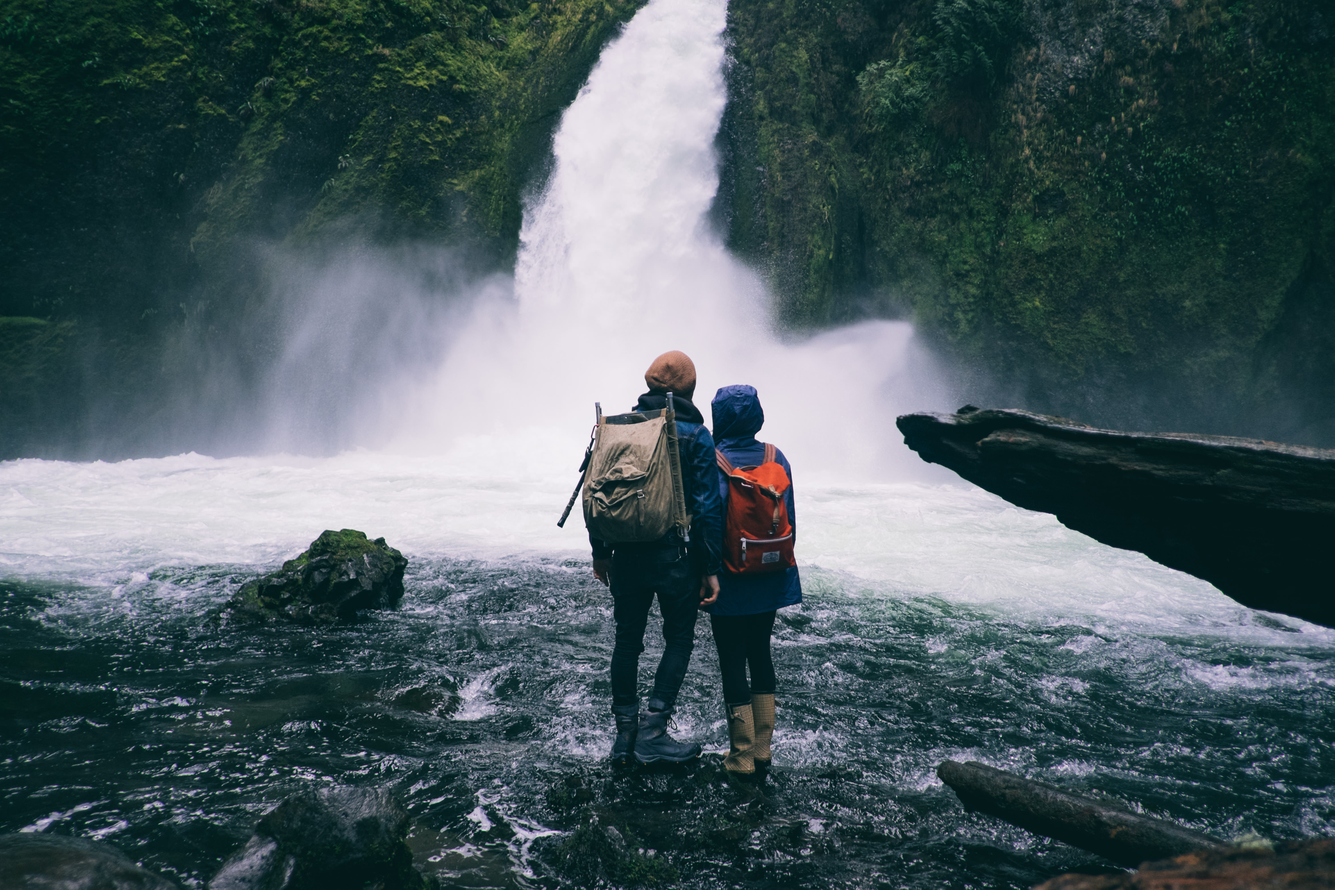
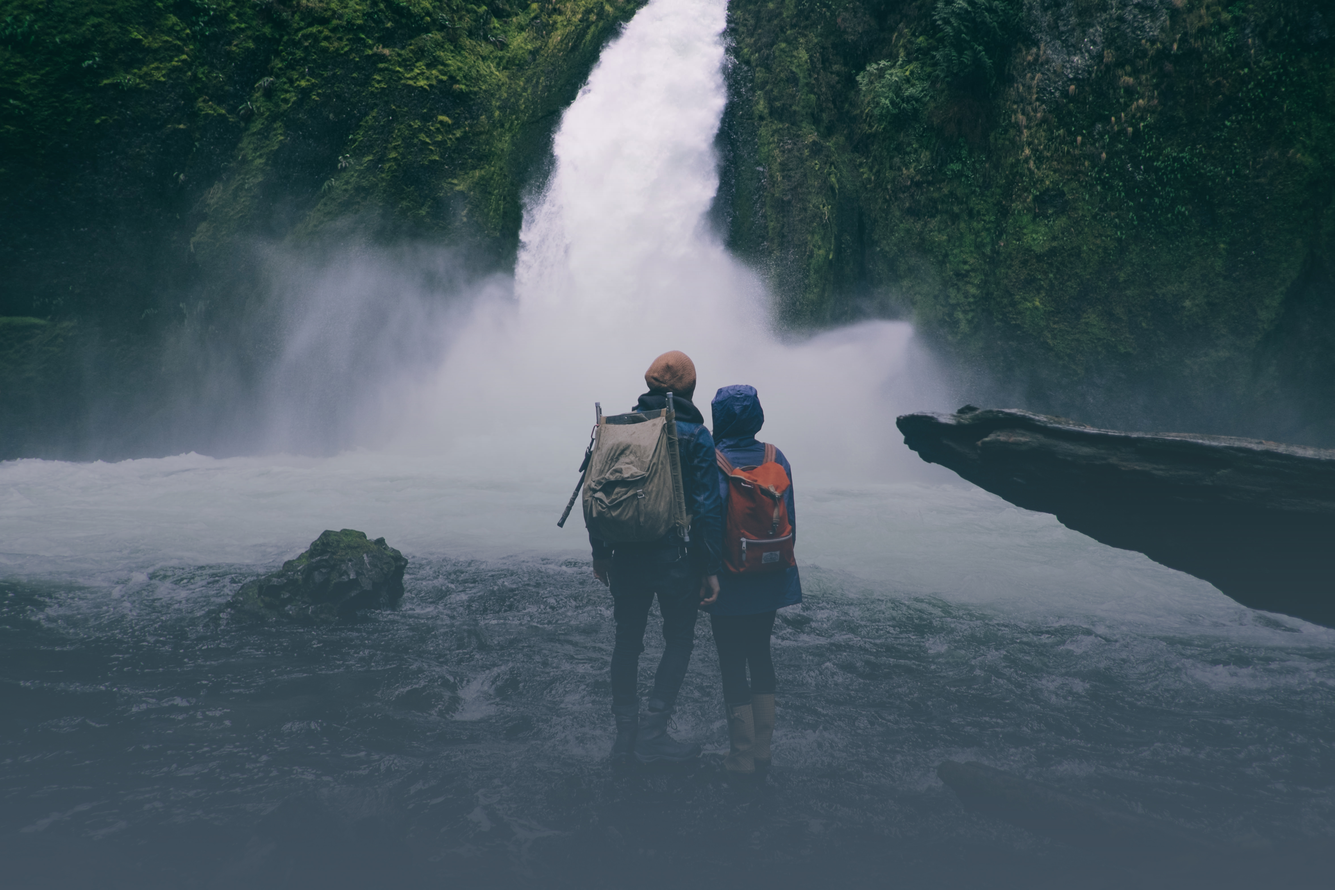
Copy in, animation working

diff --git a/app/index.html b/app/index.html
@@ -5,14 +5,13 @@
 <!--[if gt IE 8]><!--> <html class="no-js"> <!--<![endif]-->
   <head>
     <meta charset="utf-8">
-    <title>frnnfluence landing</title>
+    <title>frnnnlance: tell friends when and where you're working out</title>
     <meta name="description" content="">
     <meta name="viewport" content="width=device-width">
     <link rel="shortcut icon" href="/favicon.ico">
     <!-- Place favicon.ico and apple-touch-icon.png in the root directory -->
     <!-- build:css styles/vendor.css -->
     <!-- bower:css -->
-
     <!-- endbower -->
     <!-- endbuild -->
     <!-- build:css(.tmp) styles/main.css -->
@@ -28,7 +27,9 @@
 
     <div class="hero-unit">
       <p><img src="images/battery.png" /></p>
-      <h1>frnnfluence</h1>
+      <h1>frnnnfluence</h1>
+      <div class="description"><p>frnnnfluence tells your friends when you're working out so they can come too. we handle getting them the details while you and your friends become your healthy influences.</p>
+        <p>get it on your phone: it's free.</p></div>
     </div>
 
     <p>wassup</p>

diff --git a/app/styles/_hero.scss b/app/styles/_hero.scss
@@ -1,9 +1,9 @@
 .hero-unit {
   @include full-size-images($background: "/images/opening.jpg");
+  color: white;
   h1 {
     opacity: 0;
     @include intro-animation($delay: 0.5s, $duration: 1s, $animation: fadein-and-down);
-    color: white;
     font-size: 48pt;
     width: 100%;
     text-align: center;
@@ -17,5 +17,11 @@
     text-align: center;
     padding-top: 70px;
   }
-  
+}
+
+.description {
+  width: 40%;
+  font-size: 14pt;
+  line-height: 18pt;
+  margin: auto;
 }
